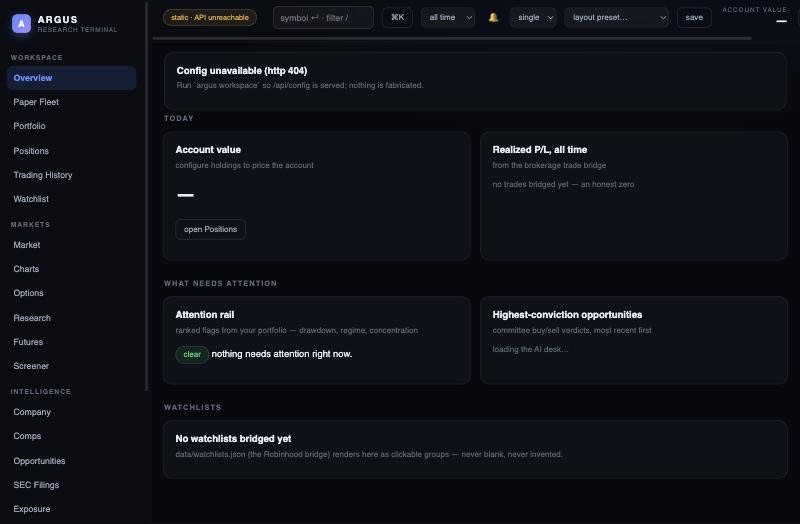
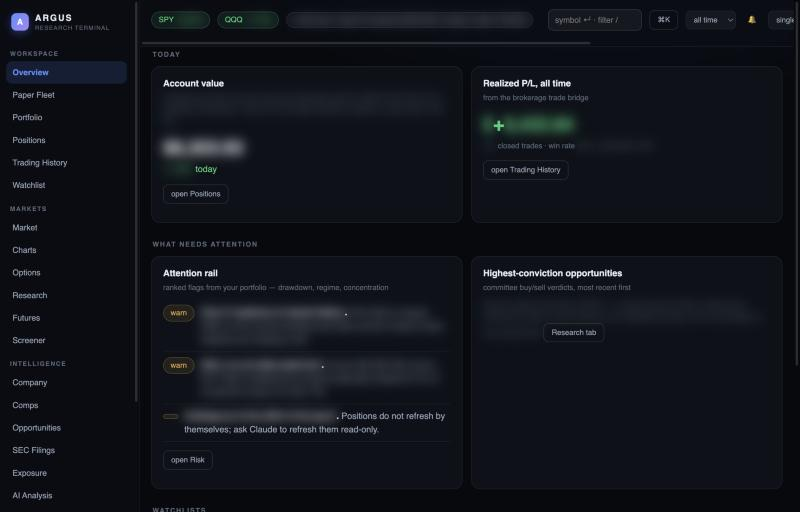
Argus: screenshot of the working web app, figures blurred

diff --git a/work/argus/index.html b/work/argus/index.html
@@ -33,7 +33,7 @@
     <p class="lede">A research tool for testing whether an investment idea beats doing nothing, built to catch false positives. Rules and pass marks are written down before any test, the data tool refuses to let a test see information from after the decision date, and rejections are logged as results. Simulated trading only: no real money, and no code that can place an order.</p>
     <dl class="facts"><div><dt>My role</dt><dd>Objective, test design, stop and fix decisions</dd></div><div><dt>Built with</dt><dd>Claude Code, Codex, Python standard library</dd></div><div><dt>Period</dt><dd>Sep 2026 to now (first version mid-2026)</dd></div><div><dt>Status</dt><dd>Working locally; paper trading only</dd></div></dl>
   </header>
-  <figure class="fig"><img src="../../static/img/argus-v1-web.jpg" alt="The Argus research terminal web app in dark mode: a sidebar of workspace, markets and intelligence sections, and overview panels for account value, realised profit and loss, an attention rail and watchlists, each showing an empty state." width="800" height="524" loading="lazy"><figcaption>The Argus web interface from the first version, which Argus 2.0 reuses, captured 20 Oct 2026. It is running without its data service, so every panel shows its built-in empty state ('nothing is fabricated') rather than numbers.</figcaption></figure>
+  <figure class="fig"><img src="../../static/img/argus-v1-web.jpg" alt="The Argus research terminal running in dark mode: a sidebar of workspace, markets and intelligence sections; overview panels for account value and realised profit and loss, an attention rail with warnings, and committee opportunities. All figures and tickers are blurred." width="800" height="512" loading="lazy"><figcaption>The Argus web app, built for the first version and now running on Argus 2.0's data, 20 Oct 2026. It's my own account, so every figure, ticker and message is blurred.</figcaption></figure>
   <div class="cs-body">
     <nav class="toc" aria-label="On this page"><p class="toc-h">On this page</p><ol><li><a href="#what">What it does</a></li><li><a href="#why">Why I built it</a></li><li><a href="#role">My role and the AI&#x27;s role</a></li><li><a href="#approach">Approach</a></li><li><a href="#decision">Mistakes caught</a></li><li><a href="#checked">How it was checked</a></li><li><a href="#limits">Results and limits</a></li><li><a href="#demo">Safe demonstration</a></li></ol></nav>
     <div class="prose">

diff --git a/index.html b/index.html
@@ -101,7 +101,7 @@
     <p class="role"><strong>My part:</strong> I set the objective and the bar, decided what to test and when to stop, and chose between fixes when problems surfaced. Claude Code built the engine and ran the tests; Codex wrote the build specification.</p>
     <p><a class="more" href="work/argus/">Read the case study<span class="vh"> on Argus 2.0</span> →</a></p>
   </div>
-  <div class="feature-media"><figure class="fig"><img src="static/img/argus-v1-web.jpg" alt="The Argus research terminal web app in dark mode: a sidebar of workspace, markets and intelligence sections, and overview panels for account value, realised profit and loss, an attention rail and watchlists, each showing an empty state." width="800" height="524" loading="lazy"><figcaption>The Argus web interface from the first version, which Argus 2.0 reuses, captured 20 Oct 2026. It is running without its data service, so every panel shows its built-in empty state ('nothing is fabricated') rather than numbers.</figcaption></figure></div>
+  <div class="feature-media"><figure class="fig"><img src="static/img/argus-v1-web.jpg" alt="The Argus research terminal running in dark mode: a sidebar of workspace, markets and intelligence sections; overview panels for account value and realised profit and loss, an attention rail with warnings, and committee opportunities. All figures and tickers are blurred." width="800" height="512" loading="lazy"><figcaption>The Argus web app, built for the first version and now running on Argus 2.0's data, 20 Oct 2026. It's my own account, so every figure, ticker and message is blurred.</figcaption></figure></div>
 </article>
 <article class="feature">
   <div class="feature-text">
